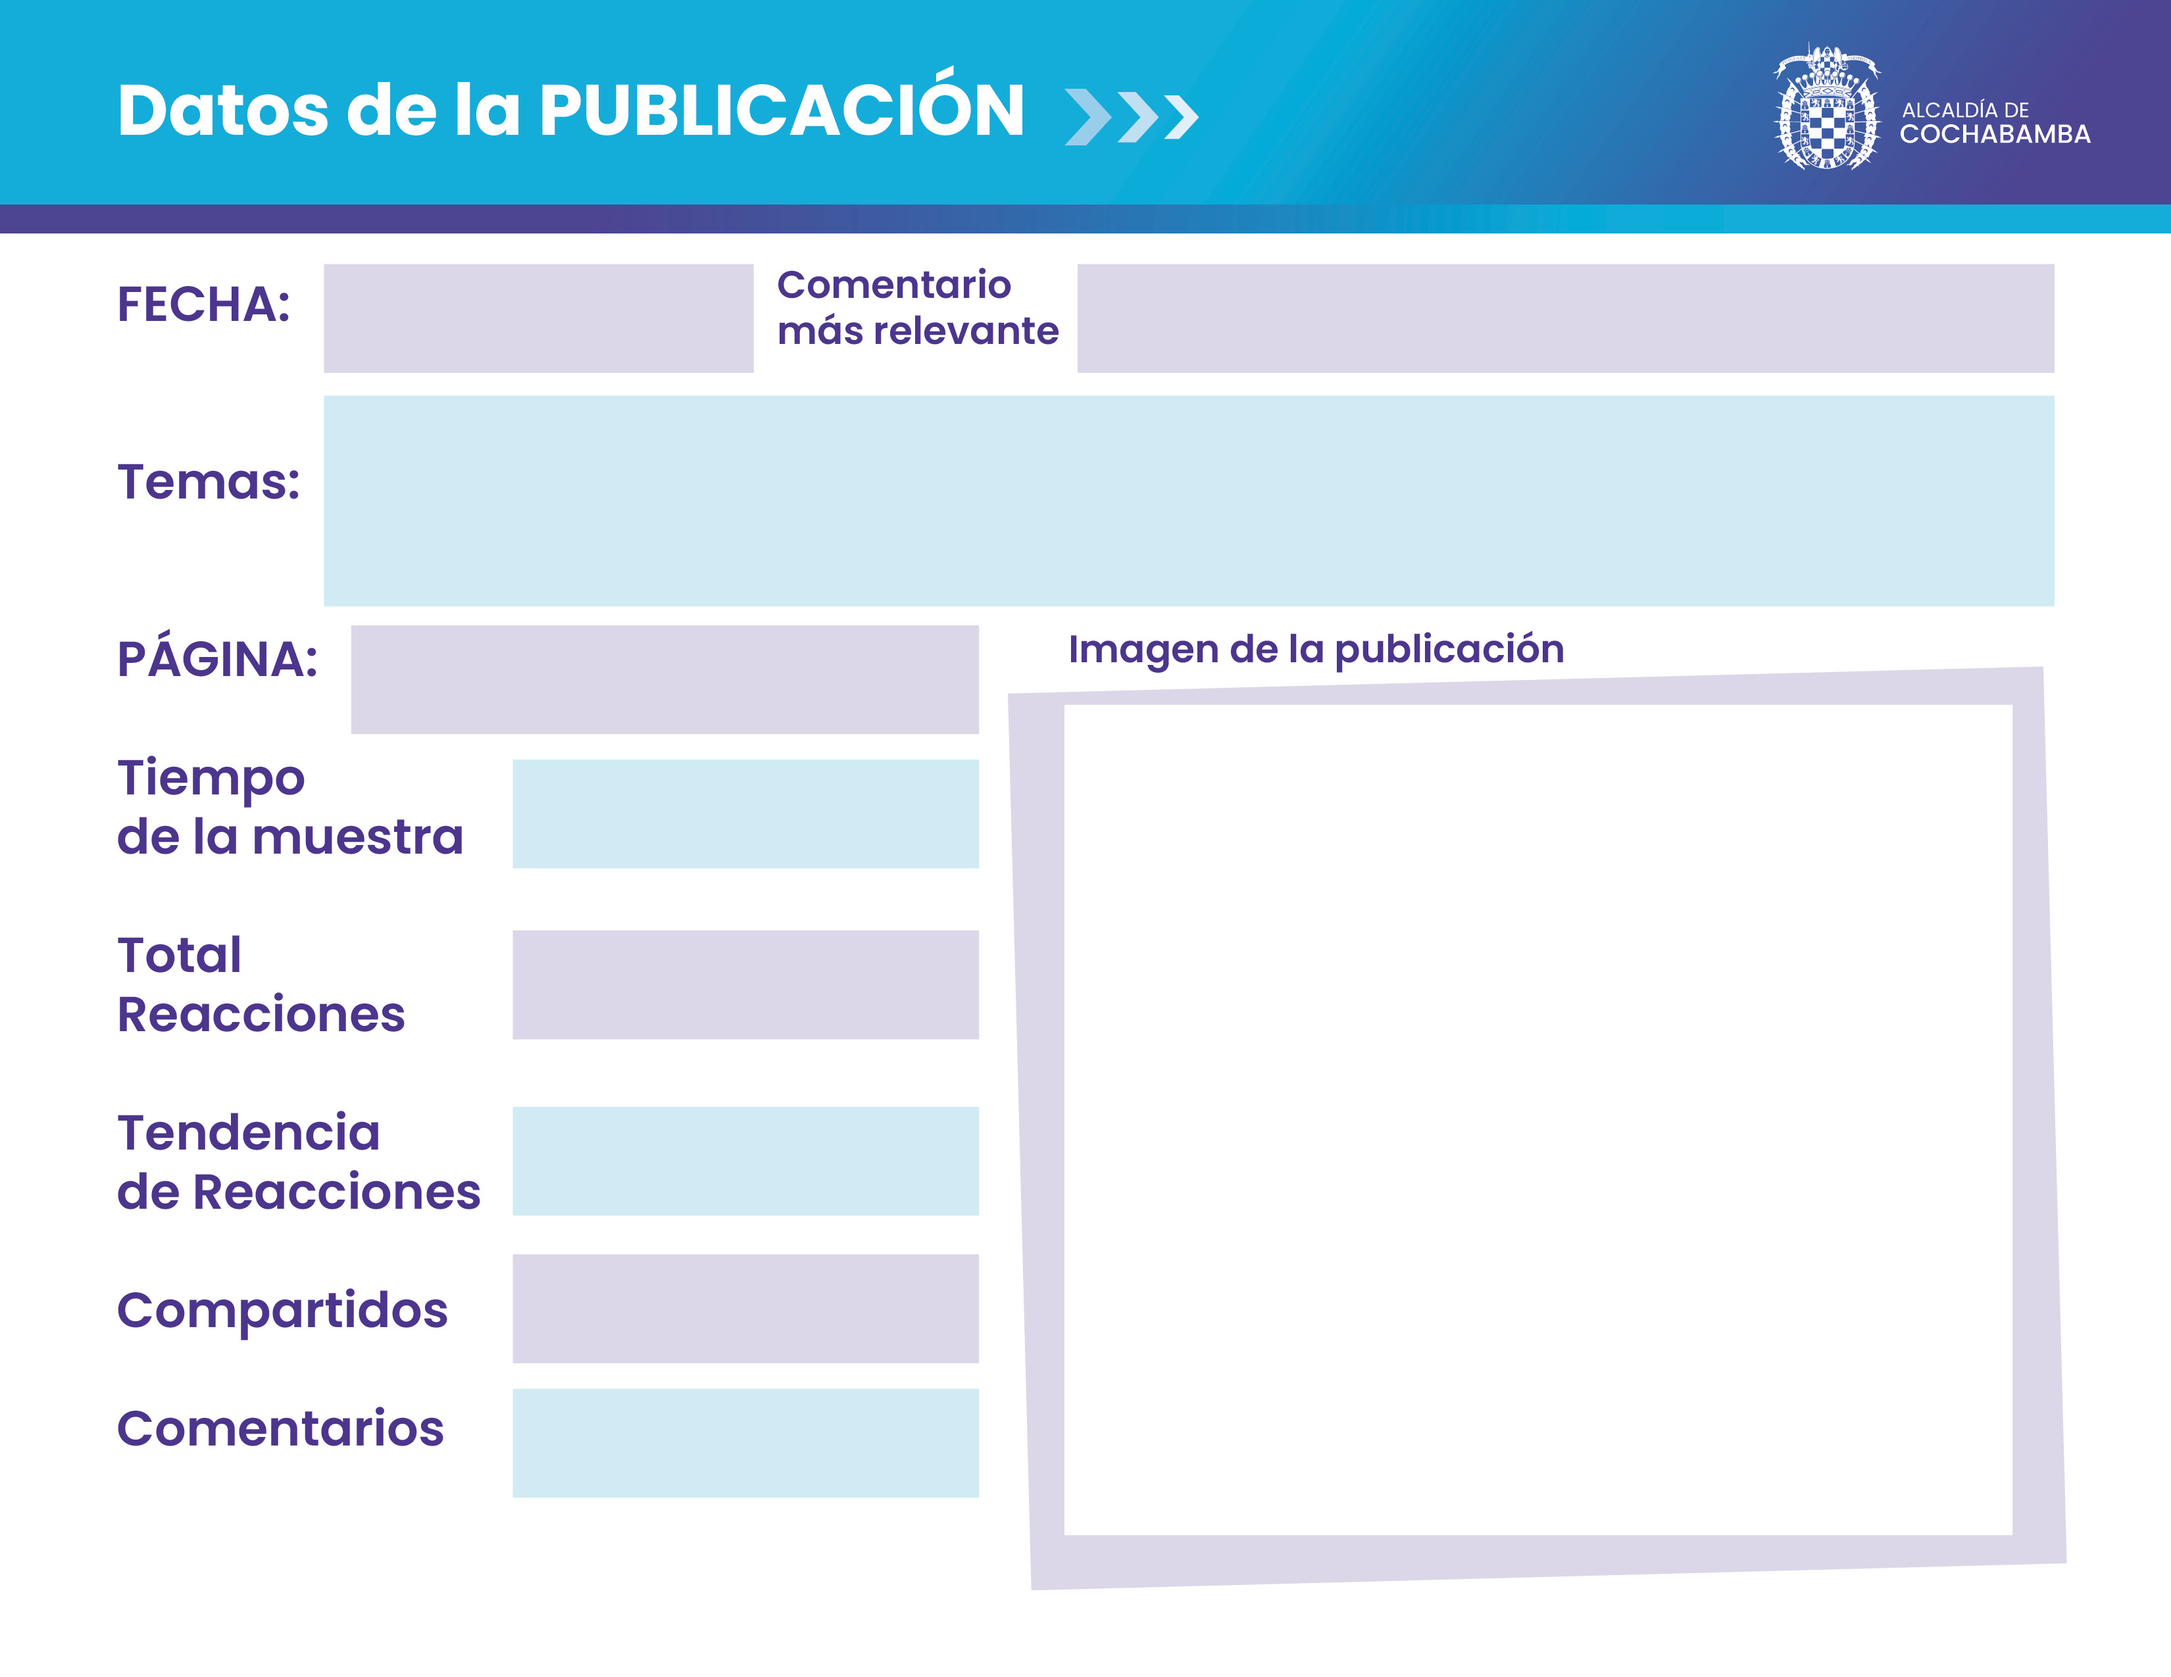
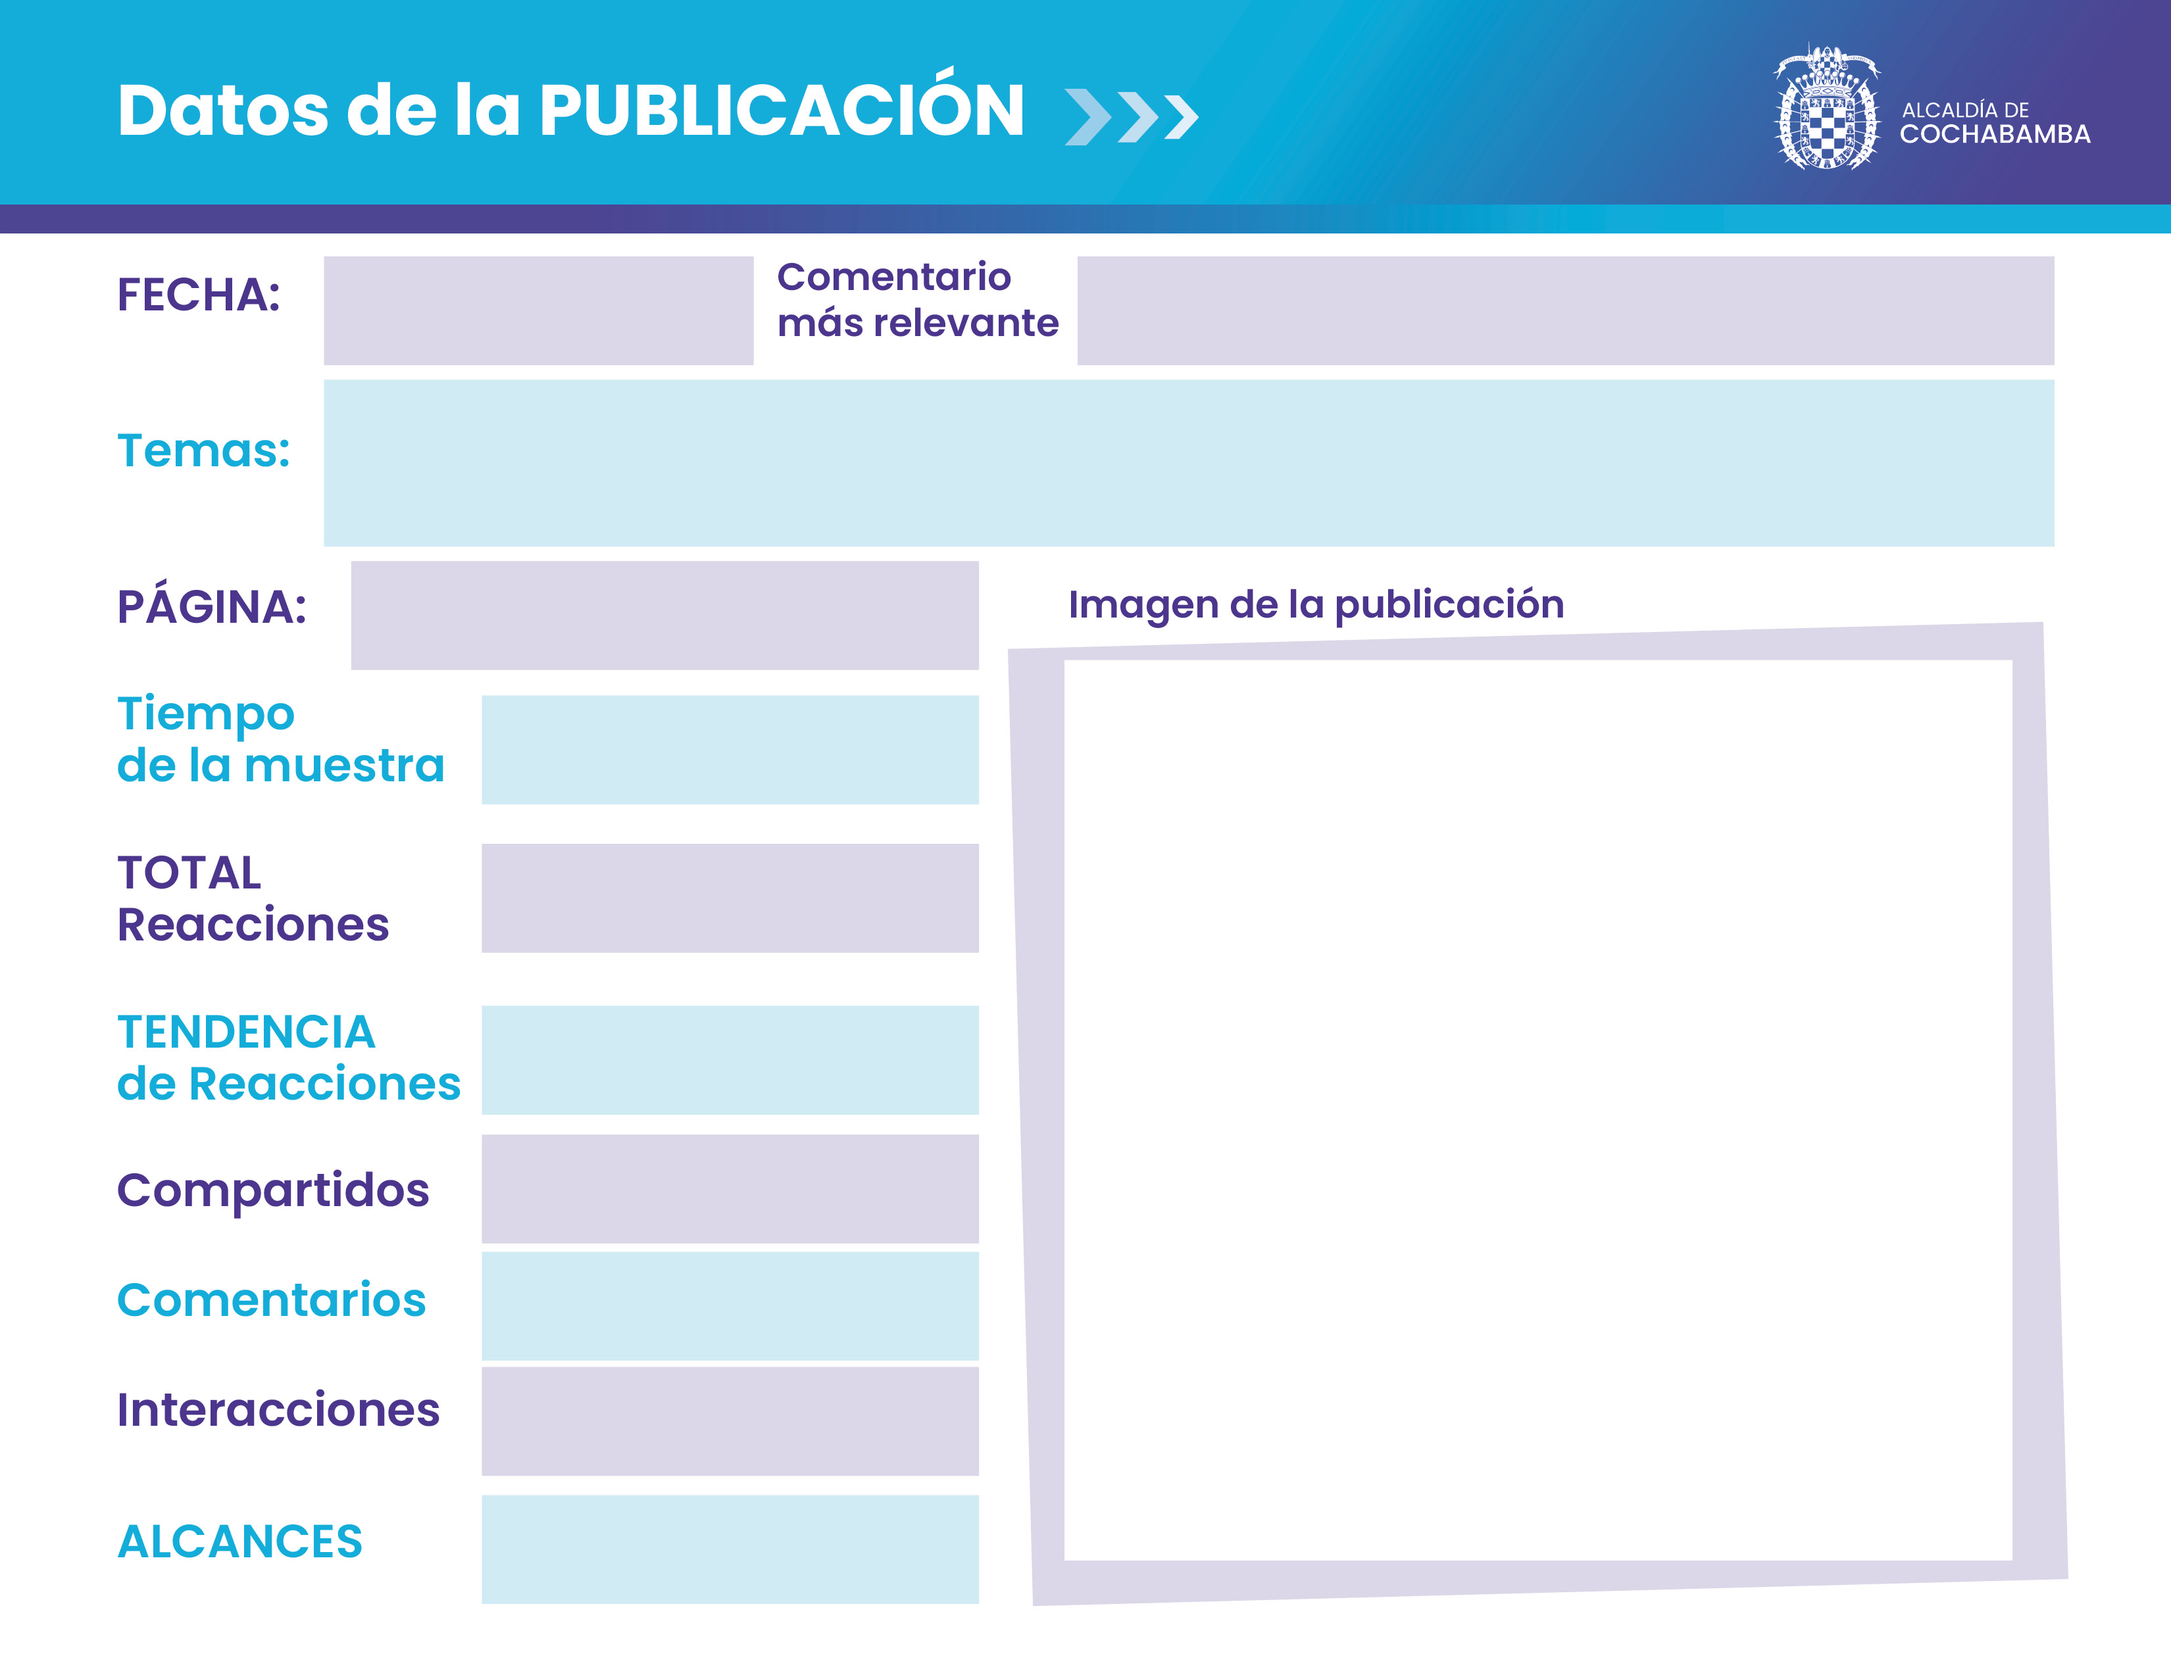
informes escucha con interaccion y alcances de facebook terminado

diff --git a/resources/views/informe_escucha.blade.php b/resources/views/informe_escucha.blade.php
@@ -38,6 +38,7 @@
         @endif
         
     </style>
+    <link href="https://fonts.googleapis.com/css2?family=Noto+Sans&display=swap" rel="stylesheet">
 </head>
 <body>
     
@@ -74,13 +75,15 @@
     <!-- Contenido de informe escucha -->
     <div class="page-2">
         <div style="position:absolute; top:200px; left:270px;"> <h1 style="color:black;font-size: 35px;">{{$postData['created_time']}}</h1></div>
-        <div style="position:absolute; top:300px; left:270px; width:1300px;"><h1 style="color:black;font-size: 30px;">{{$postData['story']}}</h1></div>
-        <div style="position:absolute; top:490px; left:290px;"><h1 style="color:black;font-size: 30px;">Facebook</h1></div>
-        <div style="position:absolute; top:610px; left:420px;"><h1 style="color:black;font-size: 30px;">{{\Carbon\Carbon::parse($postData['created_time'])->diffForHumans()}}</h1></div>
-        <div style="position:absolute; top:750px; left:420px;"><h1 style="color:black;font-size: 30px;">{{$total_reacciones}}</h1></div>
-        <div style="position:absolute; top:890px; left:420px;"><h1 style="color:black;font-size: 12px;">{!! $reactionstop !!}</h1></div>
-        <div style="position:absolute; top:1000px; left:420px;"><h1 style="color:black;font-size: 30px;">{{$postData['share_count']}}</h1></div>
-        <div style="position:absolute; top:1100px; left:420px;"><h1 style="color:black;font-size: 30px;">{{$postData['comments_count']}}</h1></div>
+        <div style="position:absolute; top:300px; left:270px; width:1300px;"><h1 style="color:black;font-size: 30px;font-family: 'Noto Sans', sans-serif;">{!! preg_replace('/[\x{1F000}-\x{1FFFF}]|[\x{200D}]|[\x{2600}-\x{27BF}]/u', '', $postData['story']) !!}</h1></div>
+        <div style="position:absolute; top:440px; left:290px;"><h1 style="color:black;font-size: 30px;">Facebook</h1></div>
+        <div style="position:absolute; top:550px; left:400px;"><h1 style="color:black;font-size: 30px;">{{\Carbon\Carbon::parse($postData['created_time'])->diffForHumans()}}</h1></div>
+        <div style="position:absolute; top:660px; left:400px;"><h1 style="color:black;font-size: 30px;">{{$total_reacciones}}</h1></div>
+        <div style="position:absolute; top:810px; left:400px;"><h1 style="color:black;font-size: 12px;">{!! $reactionstop !!}</h1></div>
+        <div style="position:absolute; top:900px; left:400px;"><h1 style="color:black;font-size: 30px;">{{$postData['share_count']}}</h1></div>
+        <div style="position:absolute; top:1000px; left:400px;"><h1 style="color:black;font-size: 30px;">{{$postData['comments_count']}}</h1></div>
+        <div style="position:absolute; top:1100px; left:400px;"><h1 style="color:black;font-size: 30px;">{{$postData['comments_count'] + $postData['like_count'] + $postData['love_count']  + $postData['haha_count'] + $postData['wow_count'] + $postData['sad_count'] + $postData['angry_count'] + $postData['share_count']}}</h1></div>
+        <div style="position:absolute; top:1200px; left:400px;"><h1 style="color:black;font-size: 30px;">{{$postData['post_impressions']}}</h1></div>
         <div style="position:absolute; top:660px; left:950px;width:450px; height:470px; overflow:hidden;"><img src="{{$imageSrc}}" style="max-width:100%; max-height:100%;" alt="Image"></div>
         @if(isset($postData['comment_pop']['message']))
             <div style="position:absolute; top:200px; left:870px;width:790px;"><h1 style="color:black;font-size: 15px;">{{$postData['comment_pop']['message']}}</h1></div>
